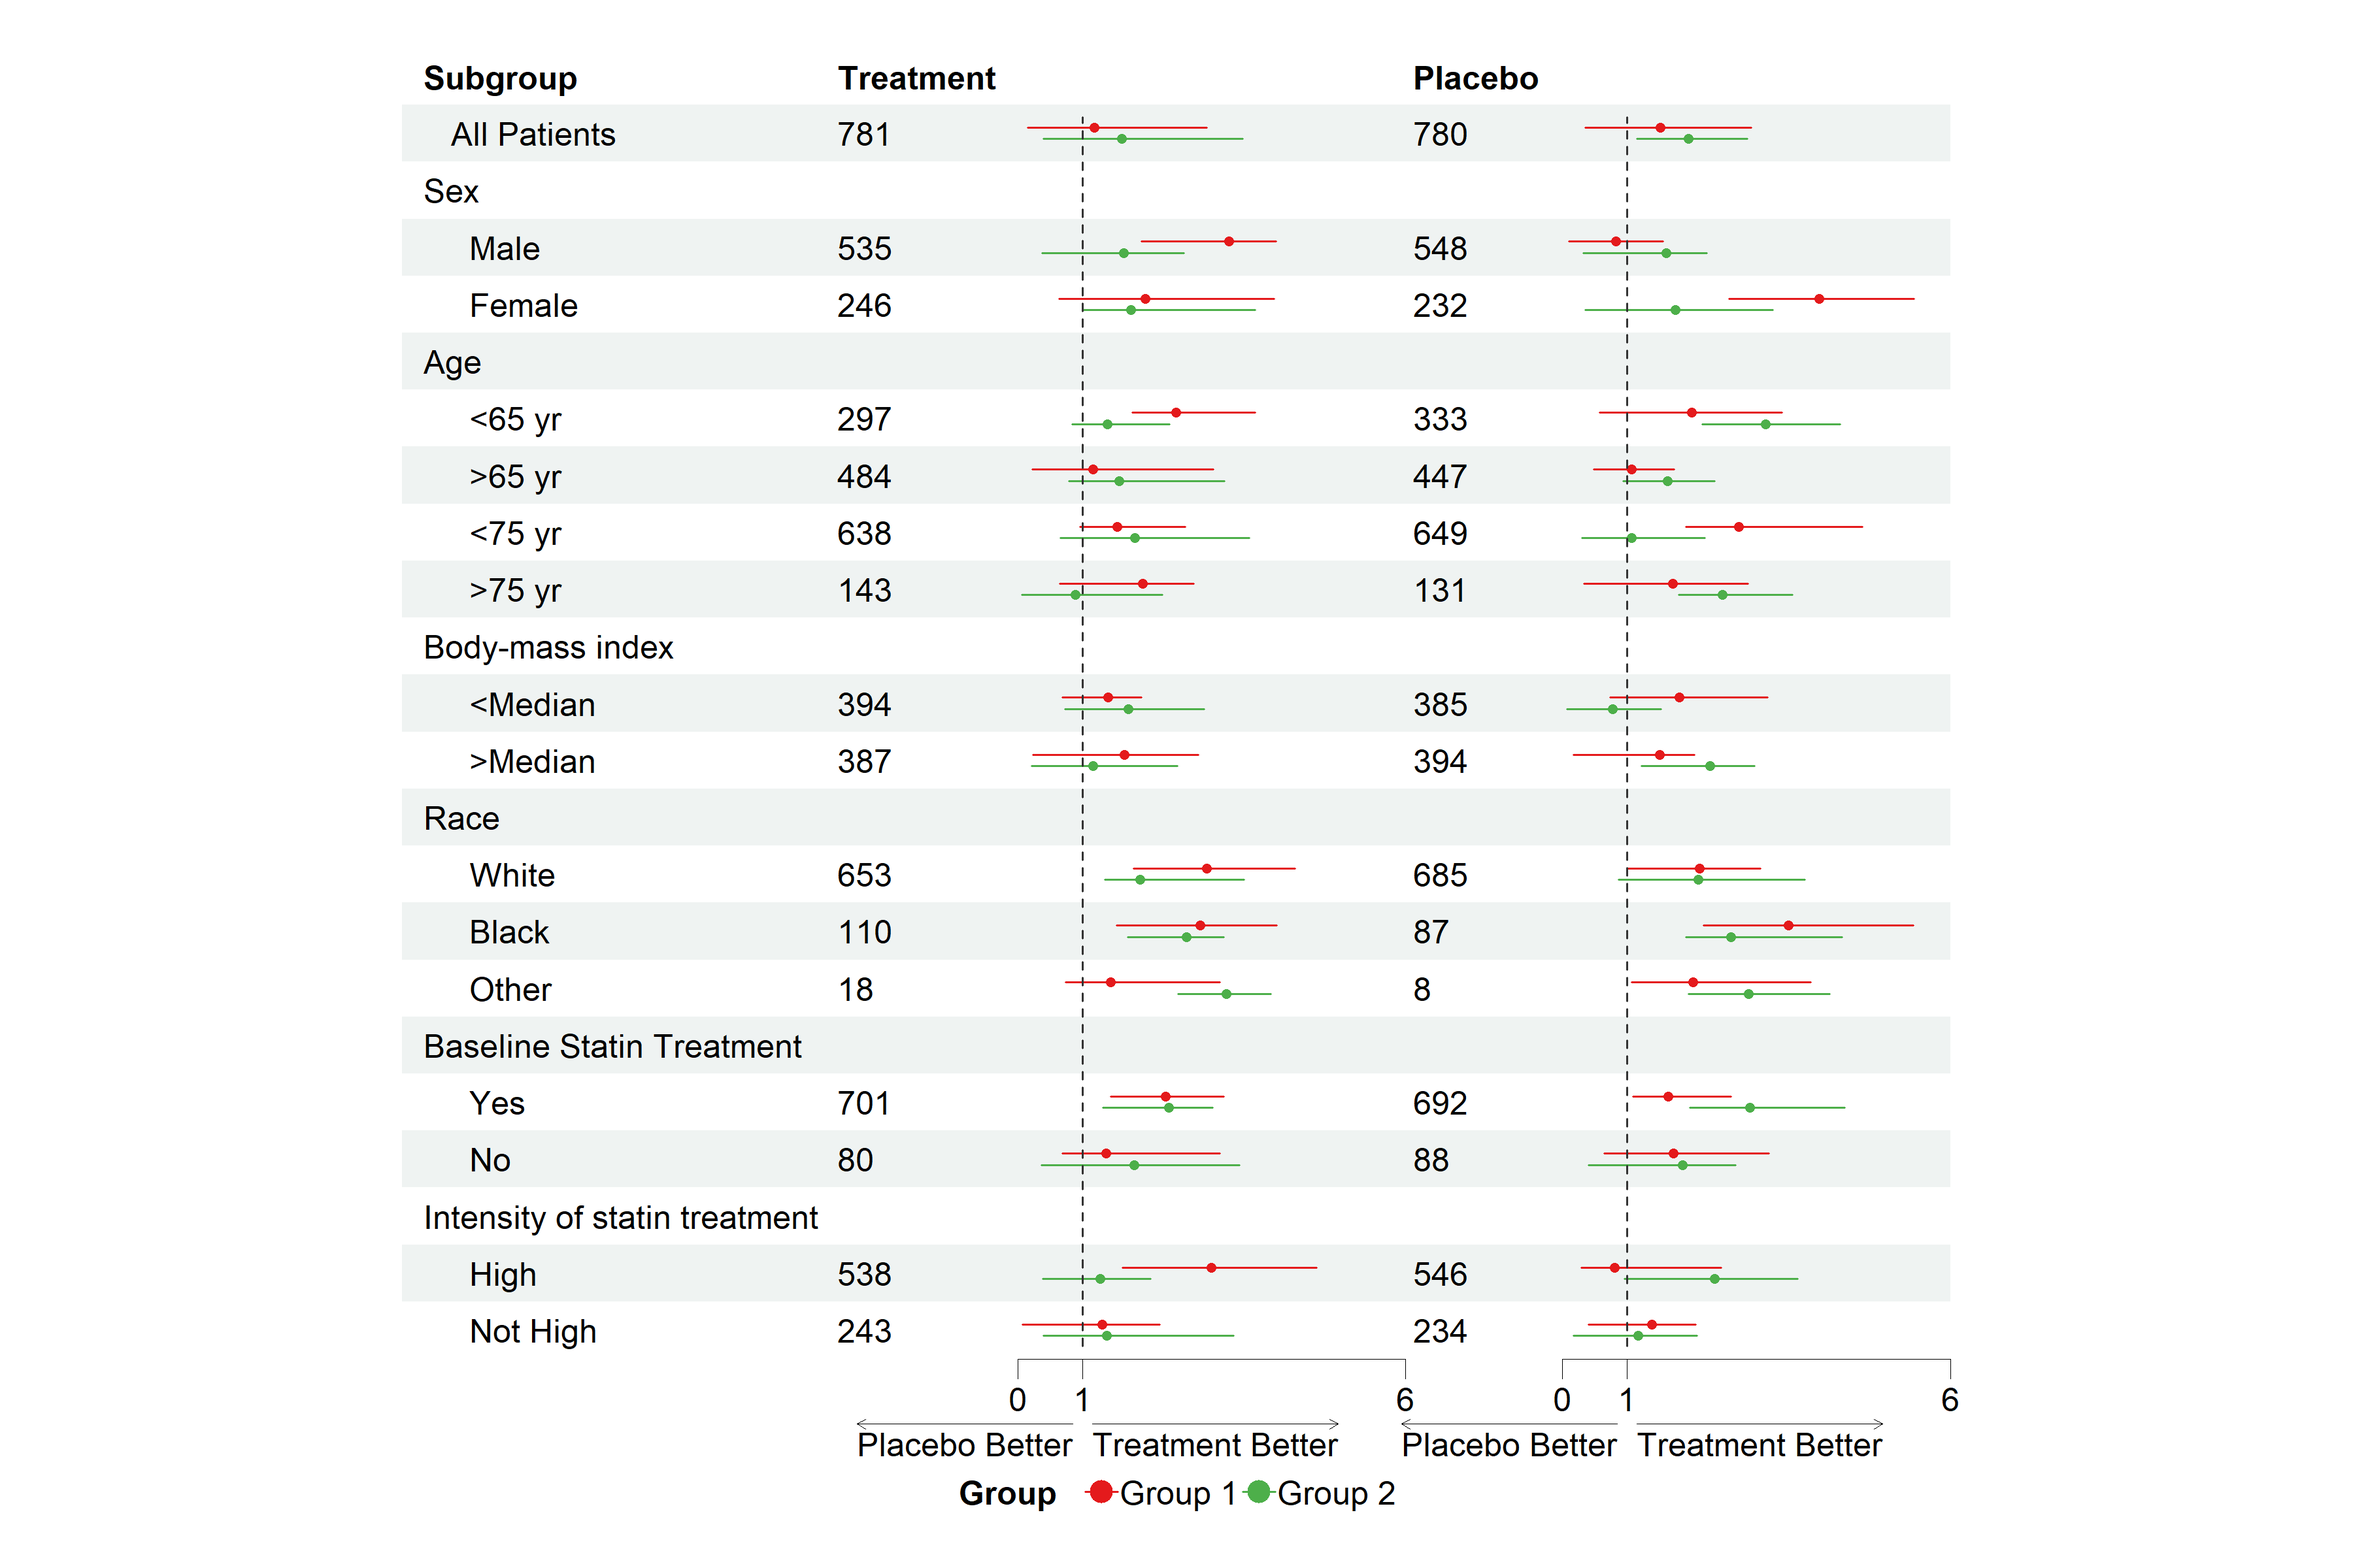
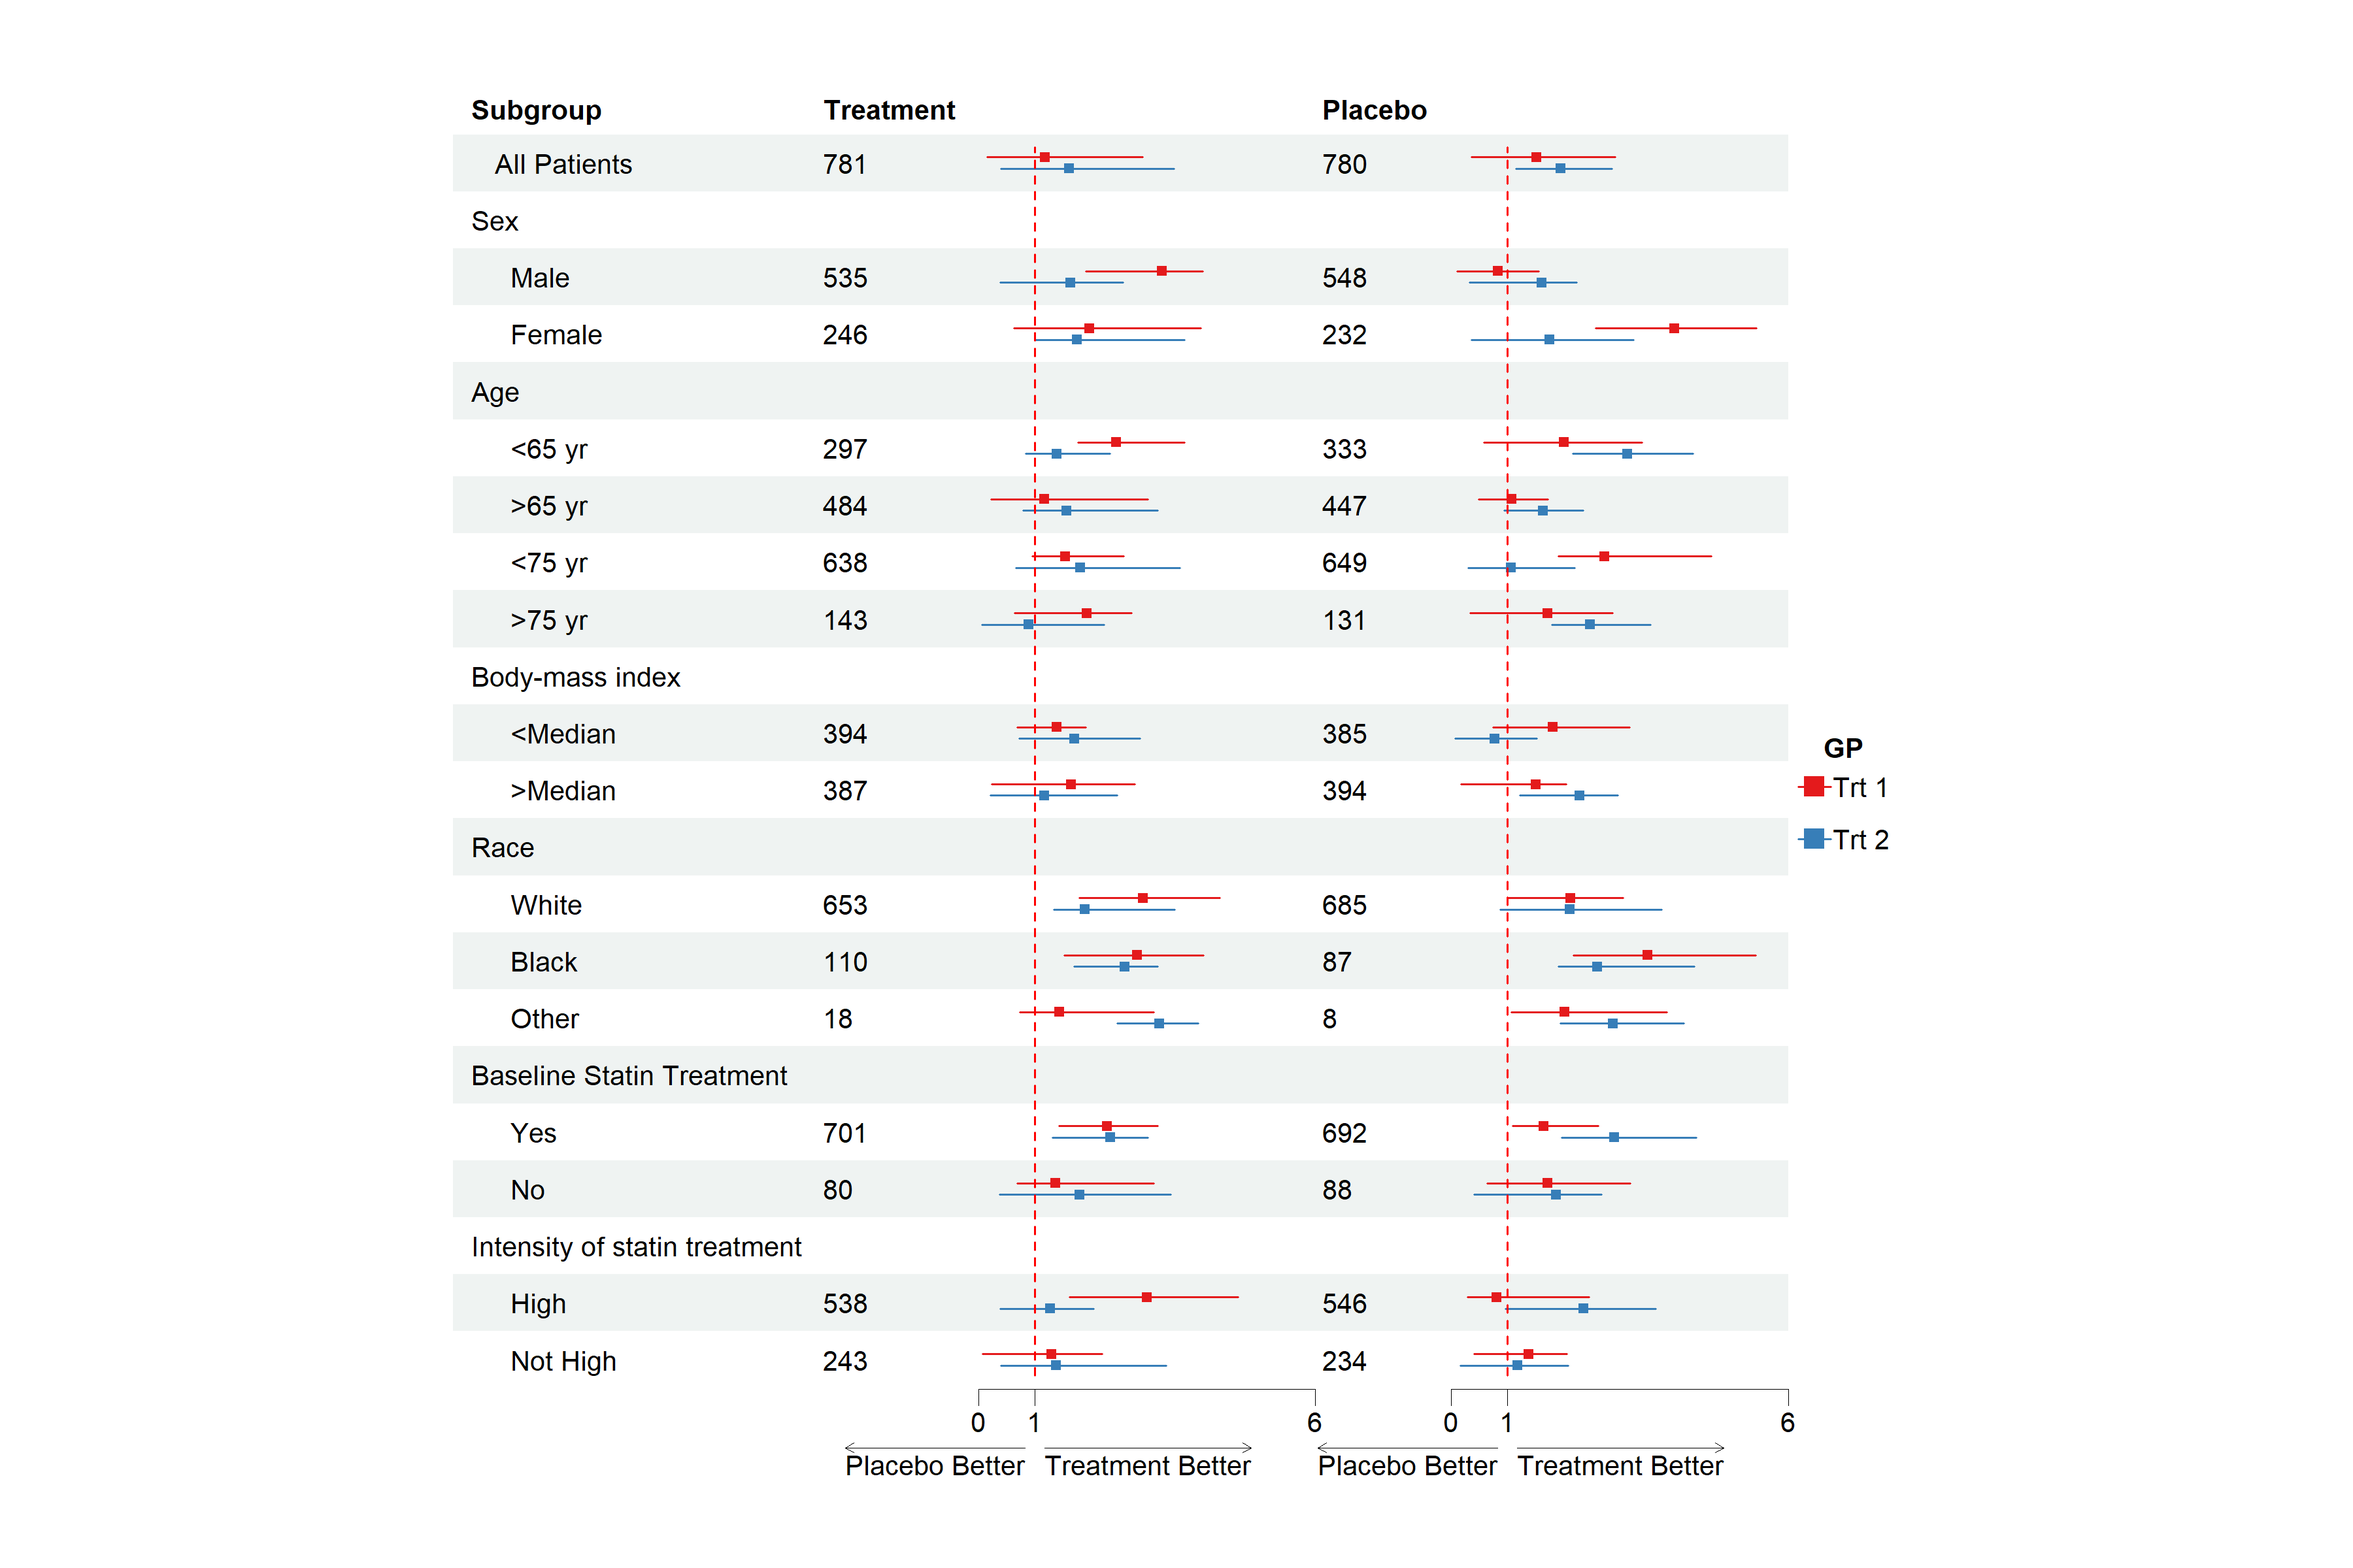
Move legend settings to theme

diff --git a/README.md b/README.md
@@ -143,6 +143,13 @@ This is an example of multiple CI columns and groups:
 # Add blank column for the second CI column
 dt$`   ` <- paste(rep(" ", 20), collapse = " ")
 
+# Set-up theme
+tm <- forest_theme(base_size = 10,
+                   refline_col = "red",
+                   footnote_col = "blue",
+                   legend_name = "GP",
+                   legend_value = c("Trt 1", "Trt 2"))
+
 p <- forest(dt[,c(1:2, 20, 3, 22)],
             est = list(dt$est_gp1,
                        dt$est_gp2,
@@ -158,13 +165,9 @@ p <- forest(dt[,c(1:2, 20, 3, 22)],
                          dt$hi_gp4),
             ci.column = c(3, 5),
             ref.line = 1,
-            legend = set_legend(name = "Group",
-                                position = "bottom",
-                                value = c("Group 1", "Group 2"),
-                                pch = 16,
-                                color = c("#e41a1c", "#4daf4a")),
             arrow.lab = c("Placebo Better", "Treatment Better"),
-            nudge_y = 0.2)
+            nudge_y = 0.2,
+            theme = tm)
 
 plot(p)
 ```
